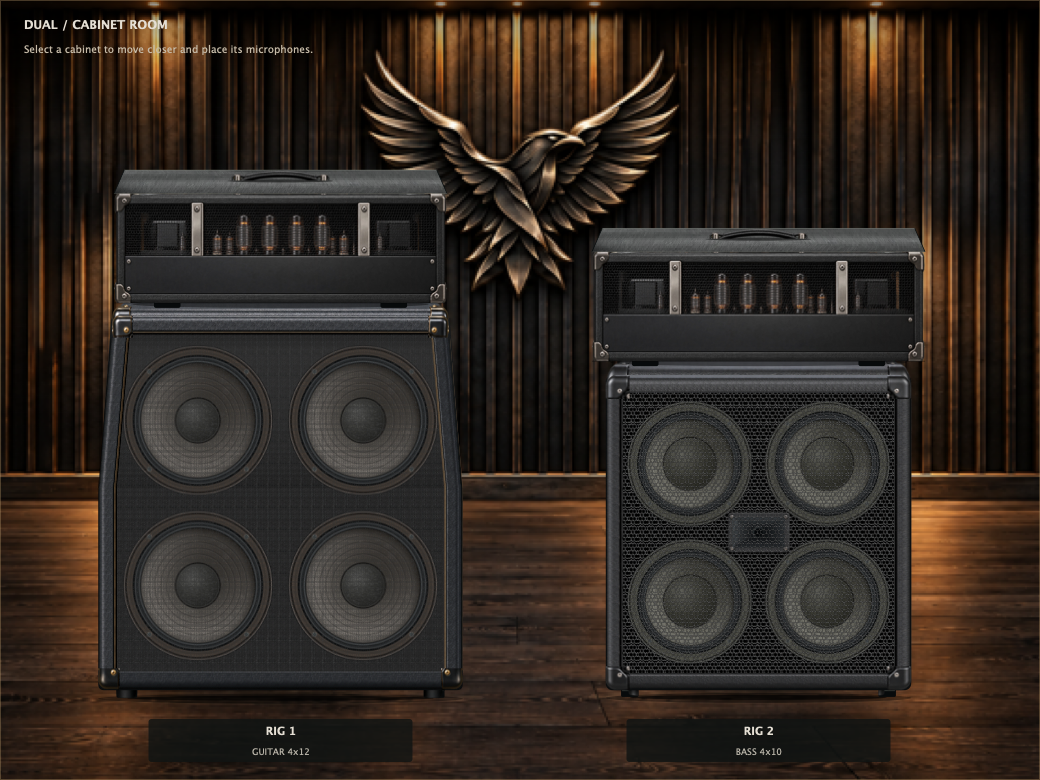
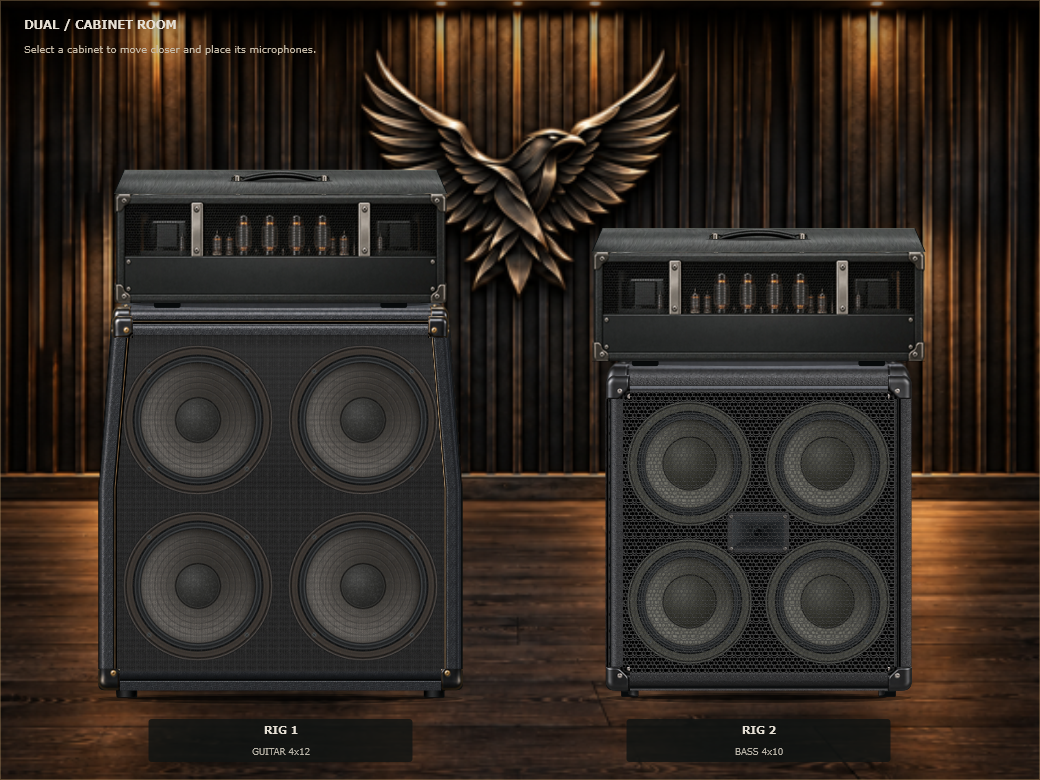
Update Chimera 1.3 product page with verified Windows cabinet and IR screenshots

diff --git a/index.html b/index.html
@@ -1246,17 +1246,17 @@
 <div class="rf-chimera-nastrond-features"><article><h4 data-chimera-key="cabRoomTitle">Choose a rig. Move in closer.</h4><p data-chimera-key="cabRoomBody">Dual presents two rigs in one room; Matrix presents LOW, MID and HIGH. Select a cabinet to enter its microphone view. Matrix LOW blends the DI with the AMP+CAB path.</p></article><article><h4 data-chimera-key="cabSpeakerTitle">Eight guitar and six bass speakers</h4><p data-chimera-key="cabSpeakerBody">Build the cabinet response with 14 speaker designs. Choose Chimera HF, Silk HF, Metal HF or Air HF for the tweeter. The bass 6×10 uses six drivers, and every cabinet retains speakers that fit its nominal size.</p></article><article><h4 data-chimera-key="cabMicTitle">One microphone or two</h4><p data-chimera-key="cabMicBody">Choose from nine dynamics, three ribbons and eight condensers. Place Mic A/B on the same or different drivers and adjust position and distance. Blend, level, polarity, delay and low/high cuts help combine the two paths.</p></article><article><h4 data-chimera-key="cabIRTitle">Modeled cabinets and captured IRs</h4><p data-chimera-key="cabIRBody">Each Mic A/B path can use the modeled cabinet or a captured IR. Import personal IRs and inspect cabinet and microphone information in the library. Switching CABINET / IR LOADER views preserves the sound; selecting an IR changes that path’s source.</p></article></div>
                     <p class="rf-chimera-muted" data-chimera-key="irExampleNote">IR-loader cabinets and microphones use illustrations with visible depth, not capture photographs. Undocumented configurations are labelled EXAMPLE. External 8×10 IR metadata remains separate from the modeled 6×10.</p>
                     <div class="rf-chimera-cab-art" aria-label="Chimera 1.3 screens">
-                        <figure><a href="assets/chimera/dual-cabinet-beta13.png" target="_blank" rel="noopener"><img src="assets/chimera/dual-cabinet-beta13.png" alt="Chimera 1.3 Dual cabinet room with a guitar 4×12 and bass 4×10; the center horn remains mounted at zero tweeter level" data-chimera-alt="cabArtworkAlt" width="1040" height="780" loading="lazy" decoding="async"></a><figcaption data-chimera-key="cabArtwork">Dual cabinet room · Guitar 4×12 and bass 4×10 · macOS · Select to enlarge</figcaption></figure>
-                        <figure><a href="assets/chimera/ir-loader-beta13.png" target="_blank" rel="noopener"><img src="assets/chimera/ir-loader-beta13.png" alt="Chimera 1.3 IR loader with depth-bearing cabinet illustrations, independent microphones and capture controls" data-chimera-alt="micArtworkAlt" width="1040" height="748" loading="lazy" decoding="async"></a><figcaption data-chimera-key="micArtwork">IR loader · Independent Mic A/B captures · macOS · Select to enlarge</figcaption></figure>
+                        <figure><a href="assets/chimera/dual-cabinet-beta13.png" target="_blank" rel="noopener"><img src="assets/chimera/dual-cabinet-beta13.png" alt="Chimera 1.3 Dual cabinet room with a guitar 4×12 and bass 4×10; the center horn remains mounted at zero tweeter level" data-chimera-alt="cabArtworkAlt" width="1040" height="780" loading="lazy" decoding="async"></a><figcaption data-chimera-key="cabArtwork">Dual cabinet room · Guitar 4×12 and bass 4×10 · Windows · Select to enlarge</figcaption></figure>
+                        <figure><a href="assets/chimera/ir-loader-beta13.png" target="_blank" rel="noopener"><img src="assets/chimera/ir-loader-beta13.png" alt="Chimera 1.3 IR loader with depth-bearing cabinet illustrations, independent microphones and capture controls" data-chimera-alt="micArtworkAlt" width="1040" height="748" loading="lazy" decoding="async"></a><figcaption data-chimera-key="micArtwork">IR loader · Independent Mic A/B captures · Windows · Select to enlarge</figcaption></figure>
                     </div>
                 </div>
-<div class="rf-chimera-block" aria-labelledby="chimera-niflheimr-title"><h3 id="chimera-niflheimr-title" data-chimera-key="niflheimrTitle">Niflheimr · Five voices for the low end</h3><p class="rf-chimera-muted" data-chimera-key="niflheimrBody">From precise technical-metal attack to death/grind, industrial, slam and sludge/doom. The SpectralForge Original bass amp offers five channels and 14 controls, including BLEND for balancing dry character with driven sound.</p><figure class="rf-chimera-nastrond"><a href="https://raw.githubusercontent.com/raven-deadwire/SpectralForge-Chimera-Amp-Matrix/8303c844c3dbf024cc1ffa56f9014a97e271af54/Assets/Artwork/aniflheimr.png" target="_blank" rel="noopener"><img src="https://raw.githubusercontent.com/raven-deadwire/SpectralForge-Chimera-Amp-Matrix/8303c844c3dbf024cc1ffa56f9014a97e271af54/Assets/Artwork/aniflheimr.png" data-chimera-alt="niflheimrAlt" alt="Niflheimr bass amplifier head artwork with five channels and fourteen controls" loading="lazy" decoding="async"></a><figcaption data-chimera-key="niflheimrCaption">Niflheimr · SpectralForge Original bass amp · Head artwork</figcaption></figure><div class="rf-chimera-nastrond-channels"><article><h4>Hrímfaxi</h4><p data-chimera-key="niflheimrHrimfaxi">Technical and progressive metal. Controlled lows and clear rhythm definition.</p></article><article><h4>Garmr</h4><p data-chimera-key="niflheimrGarmr">Death and grind. Rough texture with distinct midrange attack.</p></article><article><h4>Nidavellir</h4><p data-chimera-key="niflheimrNidavellir">Industrial. Focused attack for insistent, repeating riffs.</p></article><article><h4>Ymir</h4><p data-chimera-key="niflheimrYmir">Slam and brutal death. Shape sub-bass weight and the impact of each riff.</p></article><article><h4>Hel</h4><p data-chimera-key="niflheimrHel">Sludge and doom. Thick mids and lingering sustain.</p></article></div></div>
+<div class="rf-chimera-block" aria-labelledby="chimera-niflheimr-title"><h3 id="chimera-niflheimr-title" data-chimera-key="niflheimrTitle">Niflheimr · Five voices for the low end</h3><p class="rf-chimera-muted" data-chimera-key="niflheimrBody">From precise technical-metal attack to death/grind, industrial, slam and sludge/doom. The SpectralForge Original bass amp offers five channels and 14 controls, including BLEND for balancing dry character with driven sound.</p><figure class="rf-chimera-nastrond"><a href="https://raw.githubusercontent.com/raven-deadwire/SpectralForge-Chimera-Amp-Matrix/7f692693f942a0f1dd1973062dc4d5d47b9be4ac/Assets/Artwork/aniflheimr.png" target="_blank" rel="noopener"><img src="https://raw.githubusercontent.com/raven-deadwire/SpectralForge-Chimera-Amp-Matrix/7f692693f942a0f1dd1973062dc4d5d47b9be4ac/Assets/Artwork/aniflheimr.png" data-chimera-alt="niflheimrAlt" alt="Niflheimr bass amplifier head artwork with five channels and fourteen controls" loading="lazy" decoding="async"></a><figcaption data-chimera-key="niflheimrCaption">Niflheimr · SpectralForge Original bass amp · Head artwork</figcaption></figure><div class="rf-chimera-nastrond-channels"><article><h4>Hrímfaxi</h4><p data-chimera-key="niflheimrHrimfaxi">Technical and progressive metal. Controlled lows and clear rhythm definition.</p></article><article><h4>Garmr</h4><p data-chimera-key="niflheimrGarmr">Death and grind. Rough texture with distinct midrange attack.</p></article><article><h4>Nidavellir</h4><p data-chimera-key="niflheimrNidavellir">Industrial. Focused attack for insistent, repeating riffs.</p></article><article><h4>Ymir</h4><p data-chimera-key="niflheimrYmir">Slam and brutal death. Shape sub-bass weight and the impact of each riff.</p></article><article><h4>Hel</h4><p data-chimera-key="niflheimrHel">Sludge and doom. Thick mids and lingering sustain.</p></article></div></div>
                 <div class="rf-chimera-block" aria-labelledby="chimera-new-title">
                     <h3 id="chimera-new-title" data-chimera-key="newTitle">Náströnd</h3>
                     <p class="rf-chimera-muted" data-chimera-key="newBody">From tightly stopped low riffs to abrasive grind and long, spreading sustain. Náströnd is a SpectralForge Original high-gain amp designed for Thall, Slam and Sludge. Five channels offer distinct attack and saturation textures, letting you shape the weight around your playing.</p>
                     <figure class="rf-chimera-nastrond">
-                        <a href="https://raw.githubusercontent.com/raven-deadwire/SpectralForge-Chimera-Amp-Matrix/8303c844c3dbf024cc1ffa56f9014a97e271af54/Assets/Artwork/anastrond.png" target="_blank" rel="noopener">
-                            <img src="https://raw.githubusercontent.com/raven-deadwire/SpectralForge-Chimera-Amp-Matrix/8303c844c3dbf024cc1ffa56f9014a97e271af54/Assets/Artwork/anastrond.png" alt="Náströnd amplifier head with raven and serpent artwork, five channel selectors and thirteen knobs" data-chimera-alt="nastrondAlt" width="2172" height="724" loading="lazy" decoding="async">
+                        <a href="https://raw.githubusercontent.com/raven-deadwire/SpectralForge-Chimera-Amp-Matrix/7f692693f942a0f1dd1973062dc4d5d47b9be4ac/Assets/Artwork/anastrond.png" target="_blank" rel="noopener">
+                            <img src="https://raw.githubusercontent.com/raven-deadwire/SpectralForge-Chimera-Amp-Matrix/7f692693f942a0f1dd1973062dc4d5d47b9be4ac/Assets/Artwork/anastrond.png" alt="Náströnd amplifier head with raven and serpent artwork, five channel selectors and thirteen knobs" data-chimera-alt="nastrondAlt" width="2172" height="724" loading="lazy" decoding="async">
                         </a>
                         <figcaption data-chimera-key="nastrondCaption">Náströnd · SpectralForge Original high-gain amp · Select image to enlarge</figcaption>
                     </figure>

diff --git a/assets/chimera.js b/assets/chimera.js
@@ -78,8 +78,8 @@
     "cab13Title": "Build the tone from cabinet to microphone",
     "cab13Body": "Guitar 1×12, 2×12 and 4×12; bass 1×15, 2×10, 4×10, 6×10, 1×12 and 2×12. Choose compatible speakers for nine cabinet layouts, then shape the response with rear opening and tweeter controls.",
     "irExampleNote": "IR-loader cabinets and microphones use illustrations with visible depth, not capture photographs. Undocumented configurations are labelled EXAMPLE. External 8×10 IR metadata remains separate from the modeled 6×10.",
-    "cabArtwork": "Dual cabinet room · Guitar 4×12 and bass 4×10 · macOS · Select to enlarge",
-    "micArtwork": "IR loader · Independent Mic A/B captures · macOS · Select to enlarge",
+    "cabArtwork": "Dual cabinet room · Guitar 4×12 and bass 4×10 · Windows · Select to enlarge",
+    "micArtwork": "IR loader · Independent Mic A/B captures · Windows · Select to enlarge",
     "cabArtworkAlt": "Chimera 1.3 Dual cabinet room with a guitar 4×12 and bass 4×10; the center horn remains mounted at zero tweeter level",
     "micArtworkAlt": "Chimera 1.3 IR loader with depth-bearing cabinet illustrations, independent microphones and capture controls",
     "portable": "Portable ZIP",
@@ -182,8 +182,8 @@
     "cab13Title": "캐비넷부터 마이킹까지, 직접 만드는 톤",
     "cab13Body": "기타 1×12·2×12·4×12와 베이스 1×15·2×10·4×10·6×10·1×12·2×12. 아홉 가지 캐비넷 구성에 호환되는 스피커를 선택하고, 후면 개방 여부와 트위터를 조절해 리그의 성격을 완성합니다.",
     "irExampleNote": "IR 로더는 캐비넷과 마이크를 입체감 있는 예시 이미지로 보여줍니다. 실물 캡처 사진은 아니며, 확인되지 않은 구성은 EXAMPLE로 표시합니다. 외부 8×10 IR의 정보는 모델링 6×10과 별도로 유지됩니다.",
-    "cabArtwork": "Dual 캐비넷 룸 · 기타 4×12와 베이스 4×10 · macOS · 눌러서 확대",
-    "micArtwork": "IR 로더 · 독립적인 Mic A/B 캡처 · macOS · 눌러서 확대",
+    "cabArtwork": "Dual 캐비넷 룸 · 기타 4×12와 베이스 4×10 · Windows · 눌러서 확대",
+    "micArtwork": "IR 로더 · 독립적인 Mic A/B 캡처 · Windows · 눌러서 확대",
     "cabArtworkAlt": "Chimera 1.3 Dual 캐비넷 룸의 기타 4×12와 베이스 4×10. 트위터 0%에서도 중앙 혼이 보입니다.",
     "micArtworkAlt": "깊이감 있는 캐비넷 그림, 독립적인 마이크와 캡처 컨트롤을 갖춘 Chimera 1.3 IR 로더",
     "portable": "포터블 ZIP",
@@ -286,8 +286,8 @@
     "cab13Title": "Den Klang vom Cabinet bis zum Mikrofon formen",
     "cab13Body": "Gitarre: 1×12, 2×12 und 4×12. Bass: 1×15, 2×10, 4×10, 6×10, 1×12 und 2×12. Passende Lautsprecher für neun Gehäusekonfigurationen wählen und die Ansprache mit Rückwandöffnung und Hochtöner-Reglern gestalten.",
     "irExampleNote": "Cabinets und Mikrofone im IR-Loader sind räumlich dargestellte Illustrationen, keine Aufnahmefotos. Unbekannte Konfigurationen tragen EXAMPLE. Die Metadaten externer 8×10-IRs bleiben vom modellierten 6×10 getrennt.",
-    "cabArtwork": "Dual-Cabinet-Raum · Gitarren-4×12 und Bass-4×10 · macOS · Zum Vergrößern auswählen",
-    "micArtwork": "IR-Loader · Unabhängige Mic-A/B-Aufnahmen · macOS · Zum Vergrößern auswählen",
+    "cabArtwork": "Dual-Cabinet-Raum · Gitarren-4×12 und Bass-4×10 · Windows · Zum Vergrößern auswählen",
+    "micArtwork": "IR-Loader · Unabhängige Mic-A/B-Aufnahmen · Windows · Zum Vergrößern auswählen",
     "cabArtworkAlt": "Chimera 1.3 Dual-Raum mit Gitarren-4×12 und Bass-4×10; das mittlere Horn bleibt auch bei Hochtöner-Pegel null sichtbar",
     "micArtworkAlt": "Chimera 1.3 IR-Loader mit räumlichen Cabinet-Illustrationen, unabhängigen Mikrofonen und Capture-Reglern",
     "portable": "Portable ZIP",

diff --git a/manual/chimera.html b/manual/chimera.html
@@ -55,7 +55,7 @@ footer{border-top:1px solid var(--line);margin-top:58px;padding-top:22px;color:v
 <script>
 (function(){
 'use strict';
-const ASSET='https://raw.githubusercontent.com/raven-deadwire/SpectralForge-Chimera-Amp-Matrix/8303c844c3dbf024cc1ffa56f9014a97e271af54/Assets/Artwork/';
+const ASSET='https://raw.githubusercontent.com/raven-deadwire/SpectralForge-Chimera-Amp-Matrix/7f692693f942a0f1dd1973062dc4d5d47b9be4ac/Assets/Artwork/';
 const L={
 en:{
 subtitle:'Detailed user manual · Guitar & bass amp matrix / effects suite',counts:'25 active amp models · 39 PRE models · 21 POST models = 85 models · 48 factory & signature presets',

diff --git a/docs/validation/chimera-product-2026-10-11.md b/docs/validation/chimera-product-2026-10-11.md
@@ -18,16 +18,19 @@ English, Korean and German product section accordingly.
   Existing Beta 1.1 screenshots keep their explicit earlier-version captions.
 
 Code and artwork references are pinned to the owner-approved integrated 1.3 source
-`8303c844c3dbf024cc1ffa56f9014a97e271af54` on
+`7f692693f942a0f1dd1973062dc4d5d47b9be4ac` on
 `release/1.3.0-preparation` and `release/open-beta-1.3.0`.
 The implementation source `621bd70e79720c36c8b484f292e9f9386848ecb8`
 ([Chimera PR #43](https://github.com/raven-deadwire/SpectralForge-Chimera-Amp-Matrix/pull/43))
 improves captured-cabinet depth and keeps mounted bass 4×10 HF hardware visible
 at zero level. Subsequent commits finalize the manual/release notes and record
-owner approval. The latest source `8303c844` then makes the owner's requested
+owner approval. Source `8303c844` then makes the owner's requested
 narrow cabinet side-rail texture correction in `Source/CabEnclosureArtwork.h`,
 with corresponding enclosure material checks. It changes neither DSP nor
 presets; the packaged manual and release policy retain their reviewed blobs.
+Final release source `7f692693` changes only the enclosure material test and
+three Python CI encoding/test files. All production code, artwork, manual and
+approval-policy blobs remain identical to `8303c844`; no new capture is implied.
 All 108 audited source/artwork blobs match the final GitHub tree.
 
 The web manual now matches the final source documentation for all four tweeter
@@ -49,9 +52,9 @@ The product description itself does not certify public release availability.
 - Source/content integrity lock covers the current product markup, JS, CSS,
   manual, source files and 85 pinned remote image references plus two verified local CI screenshots.
 - JavaScript syntax and whitespace checks pass.
-- GitHub run 38118045844 for the preceding website head `e571a4d` confirms
+- GitHub run 38119822329 for the preceding website head `035cbde` confirms
   the content/link job passes and the public release/assets job blocks on HTTP
-  404 (2026-10-11 06:31 UTC). This final-source lock update has passed local
+  404 (2026-10-11 07:01 UTC). This native screenshot update has passed local
   checks; no new website CI result is claimed here. A desktop/mobile browser
   render was not completed locally because the Chromium download was invalid.
 - `verify_chimera_release.py --offline` reports `OFFLINE_PASS`, explicitly
@@ -63,23 +66,33 @@ Owner acceptance and publication authorization are recorded in the approved
 source. No additional general approval or tested-file identification is required.
 The individual CI/source-evidence and public-asset checks remain unchanged:
 this PR must not publish 1.3 download links until the exact source has a verified
-public 1.3 release. The two CAB/IR pictures must also be replaced with verified
-final-source CI captures before this page is published. Source changes require
-another source/content audit.
+public 1.3 release. The two CAB/IR pictures now use verified captures of the
+corrected production renderer. Source changes require another source/content
+audit; documentation, pipeline or test-only changes do not relabel the capture
+source or require new screenshots when product UI code and artwork are identical.
 Owner acceptance does not synthesize individual CI, listening, DAW or historical
 measurement reports.
 
 ## Actual CAB/IR screens
 
-The CAB section now links two byte-identical native macOS component snapshots
-from the successful macOS job in CAB CI run 38116435373, artifact 11694466617,
-source `621bd70e79720c36c8b484f292e9f9386848ecb8`. Their original provenance stays
-unchanged. They document IR depth and the mounted 4×10 horn before the new
-`8303c844` side-rail correction and are not relabelled as captures of that fix.
-Replacement final-source captures are pending CAB CI run 38119610154; neither
-that run's completion nor an updated screenshot is claimed here.
-One shows the modeled 4×10 horn at tweeter 0%; the other shows factory IR cards
-with the shared enclosure depth/materials. These are actual product components,
-not mockups. Each caption identifies macOS. Artifact and image hashes are in
-`assets/chimera/screens-beta13-provenance.json`, itself covered by the content
-lock. These screenshots do not certify external IR recording equipment.
+The CAB section links two byte-identical native Windows component snapshots
+from successful Windows CAB job 114411441748 in run 38119610154,
+artifact 11695383097, source `8303c844c3dbf024cc1ffa56f9014a97e271af54`.
+The artifact ZIP SHA-256 is
[1 lines of base64/hex data omitted]
+
+Visual review confirms the guitar 4×12 side rail follows a continuous upper/lower
+texture at the bend, the bass 4×10 horn remains visible at tweeter 0%, and the IR
+cards retain enclosure depth, microphone placement and intentional EXAMPLE
+labels. These are actual product components, not mockups or capture-session
+photographs. The Windows screenshots replace the earlier macOS images, and
+all three language captions now identify Windows. Their dimensions remain
+1040×780 and 1040×748, respectively.
+
+Artifact and image hashes are in `assets/chimera/screens-beta13-provenance.json`,
+itself covered by the content lock. This provenance identifies the successful
+Windows job; it does not assert success for the macOS job or entire CAB workflow.
+Final source `7f692693` changes only CI encoding and test files, preserving all
+production renderer code and artwork. These verified pictures therefore remain
+representative of that source, while their original capture identity stays
+`8303c844`. No additional approval or recapture requirement is introduced.
